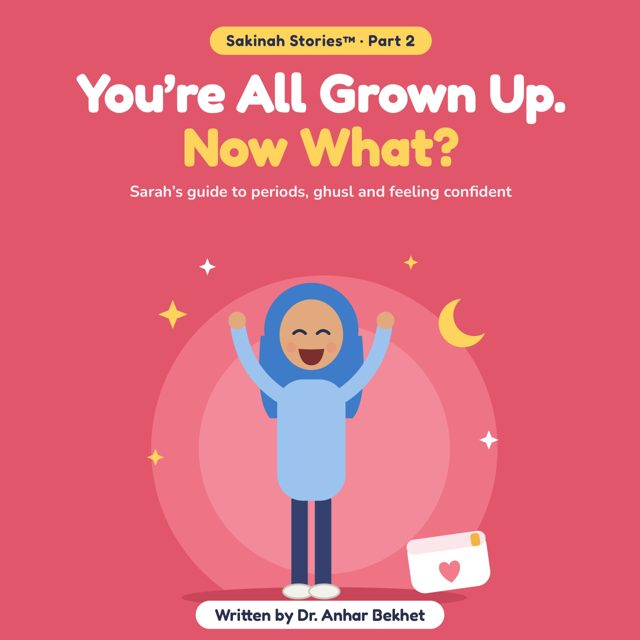
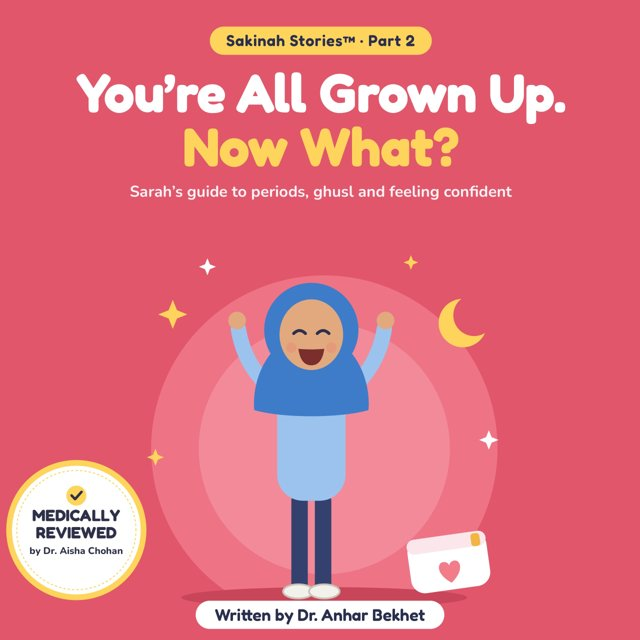
Sarah covers with Medically Reviewed badge; refresh samples
Claude-Session: https://claude.ai/code/session_01G7GW49Wcnnod9oe9VrWkZm

Changed region(s): [[0.0, 0.7188, 0.25, 0.9375], [0.375, 0.5312, 0.5938, 0.6562]]

diff --git a/books.html b/books.html
@@ -32,9 +32,9 @@
 <div><span class="tag">Out now</span><h2>Sammy Meets Amy the Amygdala</h2><p class="ages">Ages 4 to 8</p><p>Sammy's toy rocket breaks, and his brain's alarm goes off. Meet Amy the Amygdala and Professor Cortex, learn the hand model of the brain, and practice the Prophet's ﷺ calm-down plan: sit down, say <em>A'udhu billahi mina shaytan ir-rajim</em>, stay quiet, and make wudu. Anger isn't bad. What we do with it matters. Includes practice games and a calm-down card.</p><div class="row-btns"><a class="btn teal" href="https://www.amazon.com/dp/B0HR76SJWM?tag=sakinahstorie-20" target="_blank" rel="noopener">Buy on Amazon</a><p class="price"><b>Available in paperback and on Kindle</b> · Paperback $13.99 · Kindle $4.99</p><button class="btn ghost-dark" type="button" data-sample="sammy">Read a sample</button></div></div></article>
 <dialog class="sample" id="sample-sammy" aria-label="Sample pages from Sammy Meets Amy the Amygdala"><div class="sample-head"><b>Sammy Meets Amy the Amygdala</b><span>Sample pages · scroll sideways for more →</span><button class="close" type="button" aria-label="Close">✕</button></div><div class="pages"><img src="samples/sammy-04.jpg" alt="Sample page from Sammy Meets Amy the Amygdala" loading="lazy" width="949" height="963"><img src="samples/sammy-05.jpg" alt="Sample page from Sammy Meets Amy the Amygdala" loading="lazy" width="949" height="963"><img src="samples/sammy-06.jpg" alt="Sample page from Sammy Meets Amy the Amygdala" loading="lazy" width="949" height="963"></div><p class="sample-foot">Enjoyed it? <a href="https://www.amazon.com/dp/B0HR76SJWM?tag=sakinahstorie-20" target="_blank" rel="noopener">Get the whole book on Amazon</a></p></dialog><article class="book-row" id="allah-never-sleeps"><img class="cover" src="images/allah-never-sleeps.jpg" alt="Cover of Allah Never Sleeps, So I Can" width="640" height="640" loading="lazy">
 <div><span class="tag">Out now</span><h2>Allah Never Sleeps, So I Can</h2><p class="ages">Ages 3 to 7</p><p>For every child with a hundred reasons not to go to bed. A cozy bedtime story about trusting Allah, who never sleeps, and about how even our sleep can earn reward. Comes with a free Sleepy Stars jar tracker.</p><div class="row-btns"><a class="btn teal" href="https://www.amazon.com/dp/B0HR8286MT?tag=sakinahstorie-20" target="_blank" rel="noopener">Buy on Amazon</a><p class="price"><b>Available in paperback and on Kindle</b> · Paperback $13.99 · Kindle $4.99</p><button class="btn ghost-dark" type="button" data-sample="allah-never-sleeps">Read a sample</button></div></div></article>
-<dialog class="sample" id="sample-allah-never-sleeps" aria-label="Sample pages from Allah Never Sleeps, So I Can"><div class="sample-head"><b>Allah Never Sleeps, So I Can</b><span>Sample pages · scroll sideways for more →</span><button class="close" type="button" aria-label="Close">✕</button></div><div class="pages"><img src="samples/allah-never-sleeps-04.jpg" alt="Sample page from Allah Never Sleeps, So I Can" loading="lazy" width="949" height="963"><img src="samples/allah-never-sleeps-05.jpg" alt="Sample page from Allah Never Sleeps, So I Can" loading="lazy" width="949" height="963"><img src="samples/allah-never-sleeps-06.jpg" alt="Sample page from Allah Never Sleeps, So I Can" loading="lazy" width="949" height="963"><img src="samples/allah-never-sleeps-07.jpg" alt="Sample page from Allah Never Sleeps, So I Can" loading="lazy" width="949" height="963"></div><p class="sample-foot">Enjoyed it? <a href="https://www.amazon.com/dp/B0HR8286MT?tag=sakinahstorie-20" target="_blank" rel="noopener">Get the whole book on Amazon</a></p></dialog><article class="book-row" id="growing-up"><img class="cover" src="images/sarah1.jpg" alt="Cover of What Nobody Told Me About Growing Up" width="640" height="640" loading="lazy">
+<dialog class="sample" id="sample-allah-never-sleeps" aria-label="Sample pages from Allah Never Sleeps, So I Can"><div class="sample-head"><b>Allah Never Sleeps, So I Can</b><span>Sample pages · scroll sideways for more →</span><button class="close" type="button" aria-label="Close">✕</button></div><div class="pages"><img src="samples/allah-never-sleeps-04.jpg" alt="Sample page from Allah Never Sleeps, So I Can" loading="lazy" width="949" height="963"><img src="samples/allah-never-sleeps-05.jpg" alt="Sample page from Allah Never Sleeps, So I Can" loading="lazy" width="949" height="963"><img src="samples/allah-never-sleeps-06.jpg" alt="Sample page from Allah Never Sleeps, So I Can" loading="lazy" width="949" height="963"><img src="samples/allah-never-sleeps-07.jpg" alt="Sample page from Allah Never Sleeps, So I Can" loading="lazy" width="949" height="963"></div><p class="sample-foot">Enjoyed it? <a href="https://www.amazon.com/dp/B0HR8286MT?tag=sakinahstorie-20" target="_blank" rel="noopener">Get the whole book on Amazon</a></p></dialog><article class="book-row" id="growing-up"><img class="cover" src="images/sarah1.jpg?v=2" alt="Cover of What Nobody Told Me About Growing Up" width="640" height="640" loading="lazy">
 <div><span class="tag">Out now</span><h2>What Nobody Told Me About Growing Up</h2><p class="ages">Ages 9 to 12</p><p>Sarah, 10, explains the changes nobody warned her about: hormones, a brain under construction, haya, becoming baligh, and caring for the body as an amanah. Includes a Growing-Up Toolkit and a Myth-or-Fact game.</p><div class="row-btns"><a class="btn teal" href="https://www.amazon.com/dp/B0HRX79WGG?tag=sakinahstorie-20" target="_blank" rel="noopener">Buy on Amazon</a><p class="price"><b>Available on Kindle</b> · Kindle $4.99</p><button class="btn ghost-dark" type="button" data-sample="growing-up">Read a sample</button></div></div></article>
-<dialog class="sample" id="sample-growing-up" aria-label="Sample pages from What Nobody Told Me About Growing Up"><div class="sample-head"><b>What Nobody Told Me About Growing Up</b><span>Sample pages · scroll sideways for more →</span><button class="close" type="button" aria-label="Close">✕</button></div><div class="pages"><img src="samples/growing-up-04.jpg" alt="Sample page from What Nobody Told Me About Growing Up" loading="lazy" width="949" height="963"><img src="samples/growing-up-05.jpg" alt="Sample page from What Nobody Told Me About Growing Up" loading="lazy" width="949" height="963"><img src="samples/growing-up-06.jpg" alt="Sample page from What Nobody Told Me About Growing Up" loading="lazy" width="949" height="963"></div><p class="sample-foot">Enjoyed it? <a href="https://www.amazon.com/dp/B0HRX79WGG?tag=sakinahstorie-20" target="_blank" rel="noopener">Get the whole book on Amazon</a></p></dialog><article class="book-row" id="all-grown-up"><img class="cover" src="images/sarah2.jpg" alt="Cover of You're All Grown Up. Now What?" width="640" height="640" loading="lazy">
+<dialog class="sample" id="sample-growing-up" aria-label="Sample pages from What Nobody Told Me About Growing Up"><div class="sample-head"><b>What Nobody Told Me About Growing Up</b><span>Sample pages · scroll sideways for more →</span><button class="close" type="button" aria-label="Close">✕</button></div><div class="pages"><img src="samples/growing-up-04.jpg" alt="Sample page from What Nobody Told Me About Growing Up" loading="lazy" width="949" height="963"><img src="samples/growing-up-05.jpg" alt="Sample page from What Nobody Told Me About Growing Up" loading="lazy" width="949" height="963"><img src="samples/growing-up-06.jpg" alt="Sample page from What Nobody Told Me About Growing Up" loading="lazy" width="949" height="963"></div><p class="sample-foot">Enjoyed it? <a href="https://www.amazon.com/dp/B0HRX79WGG?tag=sakinahstorie-20" target="_blank" rel="noopener">Get the whole book on Amazon</a></p></dialog><article class="book-row" id="all-grown-up"><img class="cover" src="images/sarah2.jpg?v=2" alt="Cover of You're All Grown Up. Now What?" width="640" height="640" loading="lazy">
 <div><span class="tag soon">Coming soon</span><h2>You're All Grown Up. Now What?</h2><p class="ages">Ages 10 to 13</p><p>Sarah's first period, explained calmly: how a cycle works, choosing products, what changes in salah and fasting, staying close to Allah, cramps, and ghusl step by step. Includes a Period Pocket Guide.</p><div class="row-btns"><p class="price">Coming soon, in sha Allah.</p><button class="btn ghost-dark" type="button" data-sample="all-grown-up">Read a sample</button></div></div></article>
 <dialog class="sample" id="sample-all-grown-up" aria-label="Sample pages from You're All Grown Up. Now What?"><div class="sample-head"><b>You're All Grown Up. Now What?</b><span>Sample pages · scroll sideways for more →</span><button class="close" type="button" aria-label="Close">✕</button></div><div class="pages"><img src="samples/all-grown-up-04.jpg" alt="Sample page from You're All Grown Up. Now What?" loading="lazy" width="949" height="963"><img src="samples/all-grown-up-05.jpg" alt="Sample page from You're All Grown Up. Now What?" loading="lazy" width="949" height="963"><img src="samples/all-grown-up-06.jpg" alt="Sample page from You're All Grown Up. Now What?" loading="lazy" width="949" height="963"></div><p class="sample-foot">Enjoyed it? This book is coming soon, in sha Allah.</p></dialog></div></section><script>
 function openSample(id){var d=document.getElementById("sample-"+id);if(d&&d.showModal){d.showModal();}}

diff --git a/index.html b/index.html
@@ -45,7 +45,7 @@
 <section class="block"><div class="wrap">
 <div class="sec-head"><div><p class="eyebrow">The Sakinah Stories series</p><h2>Books for story night</h2></div>
 <p>Each book ends with discussion questions and grown-up pages, so it works at bedtime, in the classroom, or at the masjid.</p></div>
-<div class="books"><article class="book"><a href="books.html#sammy"><img class="cover" src="images/sammy.jpg" alt="Cover of Sammy Meets Amy the Amygdala" width="640" height="640" loading="lazy"></a><span class="tag">Out now</span><h3>Sammy Meets Amy the Amygdala</h3><p>Sammy's rocket breaks and his brain's alarm goes off. A gentle, funny guide to anger and the Prophet's ﷺ calm-down plan.</p><a class="sample-link" href="books.html#sample-sammy">Read a sample</a><p class="price"><b>Available in paperback and on Kindle</b><br>Paperback $13.99 · Kindle $4.99</p><a class="btn teal" href="https://www.amazon.com/dp/B0HR76SJWM?tag=sakinahstorie-20" target="_blank" rel="noopener">Buy on Amazon</a></article><article class="book"><a href="books.html#allah-never-sleeps"><img class="cover" src="images/allah-never-sleeps.jpg" alt="Cover of Allah Never Sleeps, So I Can" width="640" height="640" loading="lazy"></a><span class="tag">Out now</span><h3>Allah Never Sleeps, So I Can</h3><p>A bedtime book for kids with a hundred excuses not to sleep, and a reminder that even our sleep can earn reward.</p><a class="sample-link" href="books.html#sample-allah-never-sleeps">Read a sample</a><p class="price"><b>Available in paperback and on Kindle</b><br>Paperback $13.99 · Kindle $4.99</p><a class="btn teal" href="https://www.amazon.com/dp/B0HR8286MT?tag=sakinahstorie-20" target="_blank" rel="noopener">Buy on Amazon</a></article><article class="book"><a href="books.html#growing-up"><img class="cover" src="images/sarah1.jpg" alt="Cover of What Nobody Told Me About Growing Up" width="640" height="640" loading="lazy"></a><span class="tag">Out now</span><h3>What Nobody Told Me About Growing Up</h3><p>Sarah, 10, explains puberty, haya and the body as an amanah for preteen girls.</p><a class="sample-link" href="books.html#sample-growing-up">Read a sample</a><p class="price"><b>Available on Kindle</b><br>Kindle $4.99</p><a class="btn teal" href="https://www.amazon.com/dp/B0HRX79WGG?tag=sakinahstorie-20" target="_blank" rel="noopener">Buy on Amazon</a></article><article class="book"><a href="books.html#all-grown-up"><img class="cover" src="images/sarah2.jpg" alt="Cover of You're All Grown Up. Now What?" width="640" height="640" loading="lazy"></a><span class="tag soon">Coming soon</span><h3>You're All Grown Up. Now What?</h3><p>Sarah's first period: what to expect, what changes in worship, and how to stay close to Allah.</p><a class="sample-link" href="books.html#sample-all-grown-up">Read a sample</a></article></div>
+<div class="books"><article class="book"><a href="books.html#sammy"><img class="cover" src="images/sammy.jpg" alt="Cover of Sammy Meets Amy the Amygdala" width="640" height="640" loading="lazy"></a><span class="tag">Out now</span><h3>Sammy Meets Amy the Amygdala</h3><p>Sammy's rocket breaks and his brain's alarm goes off. A gentle, funny guide to anger and the Prophet's ﷺ calm-down plan.</p><a class="sample-link" href="books.html#sample-sammy">Read a sample</a><p class="price"><b>Available in paperback and on Kindle</b><br>Paperback $13.99 · Kindle $4.99</p><a class="btn teal" href="https://www.amazon.com/dp/B0HR76SJWM?tag=sakinahstorie-20" target="_blank" rel="noopener">Buy on Amazon</a></article><article class="book"><a href="books.html#allah-never-sleeps"><img class="cover" src="images/allah-never-sleeps.jpg" alt="Cover of Allah Never Sleeps, So I Can" width="640" height="640" loading="lazy"></a><span class="tag">Out now</span><h3>Allah Never Sleeps, So I Can</h3><p>A bedtime book for kids with a hundred excuses not to sleep, and a reminder that even our sleep can earn reward.</p><a class="sample-link" href="books.html#sample-allah-never-sleeps">Read a sample</a><p class="price"><b>Available in paperback and on Kindle</b><br>Paperback $13.99 · Kindle $4.99</p><a class="btn teal" href="https://www.amazon.com/dp/B0HR8286MT?tag=sakinahstorie-20" target="_blank" rel="noopener">Buy on Amazon</a></article><article class="book"><a href="books.html#growing-up"><img class="cover" src="images/sarah1.jpg?v=2" alt="Cover of What Nobody Told Me About Growing Up" width="640" height="640" loading="lazy"></a><span class="tag">Out now</span><h3>What Nobody Told Me About Growing Up</h3><p>Sarah, 10, explains puberty, haya and the body as an amanah for preteen girls.</p><a class="sample-link" href="books.html#sample-growing-up">Read a sample</a><p class="price"><b>Available on Kindle</b><br>Kindle $4.99</p><a class="btn teal" href="https://www.amazon.com/dp/B0HRX79WGG?tag=sakinahstorie-20" target="_blank" rel="noopener">Buy on Amazon</a></article><article class="book"><a href="books.html#all-grown-up"><img class="cover" src="images/sarah2.jpg?v=2" alt="Cover of You're All Grown Up. Now What?" width="640" height="640" loading="lazy"></a><span class="tag soon">Coming soon</span><h3>You're All Grown Up. Now What?</h3><p>Sarah's first period: what to expect, what changes in worship, and how to stay close to Allah.</p><a class="sample-link" href="books.html#sample-all-grown-up">Read a sample</a></article></div>
 </div></section>
 
 <section class="block"><div class="wrap"><div class="sleepy">
